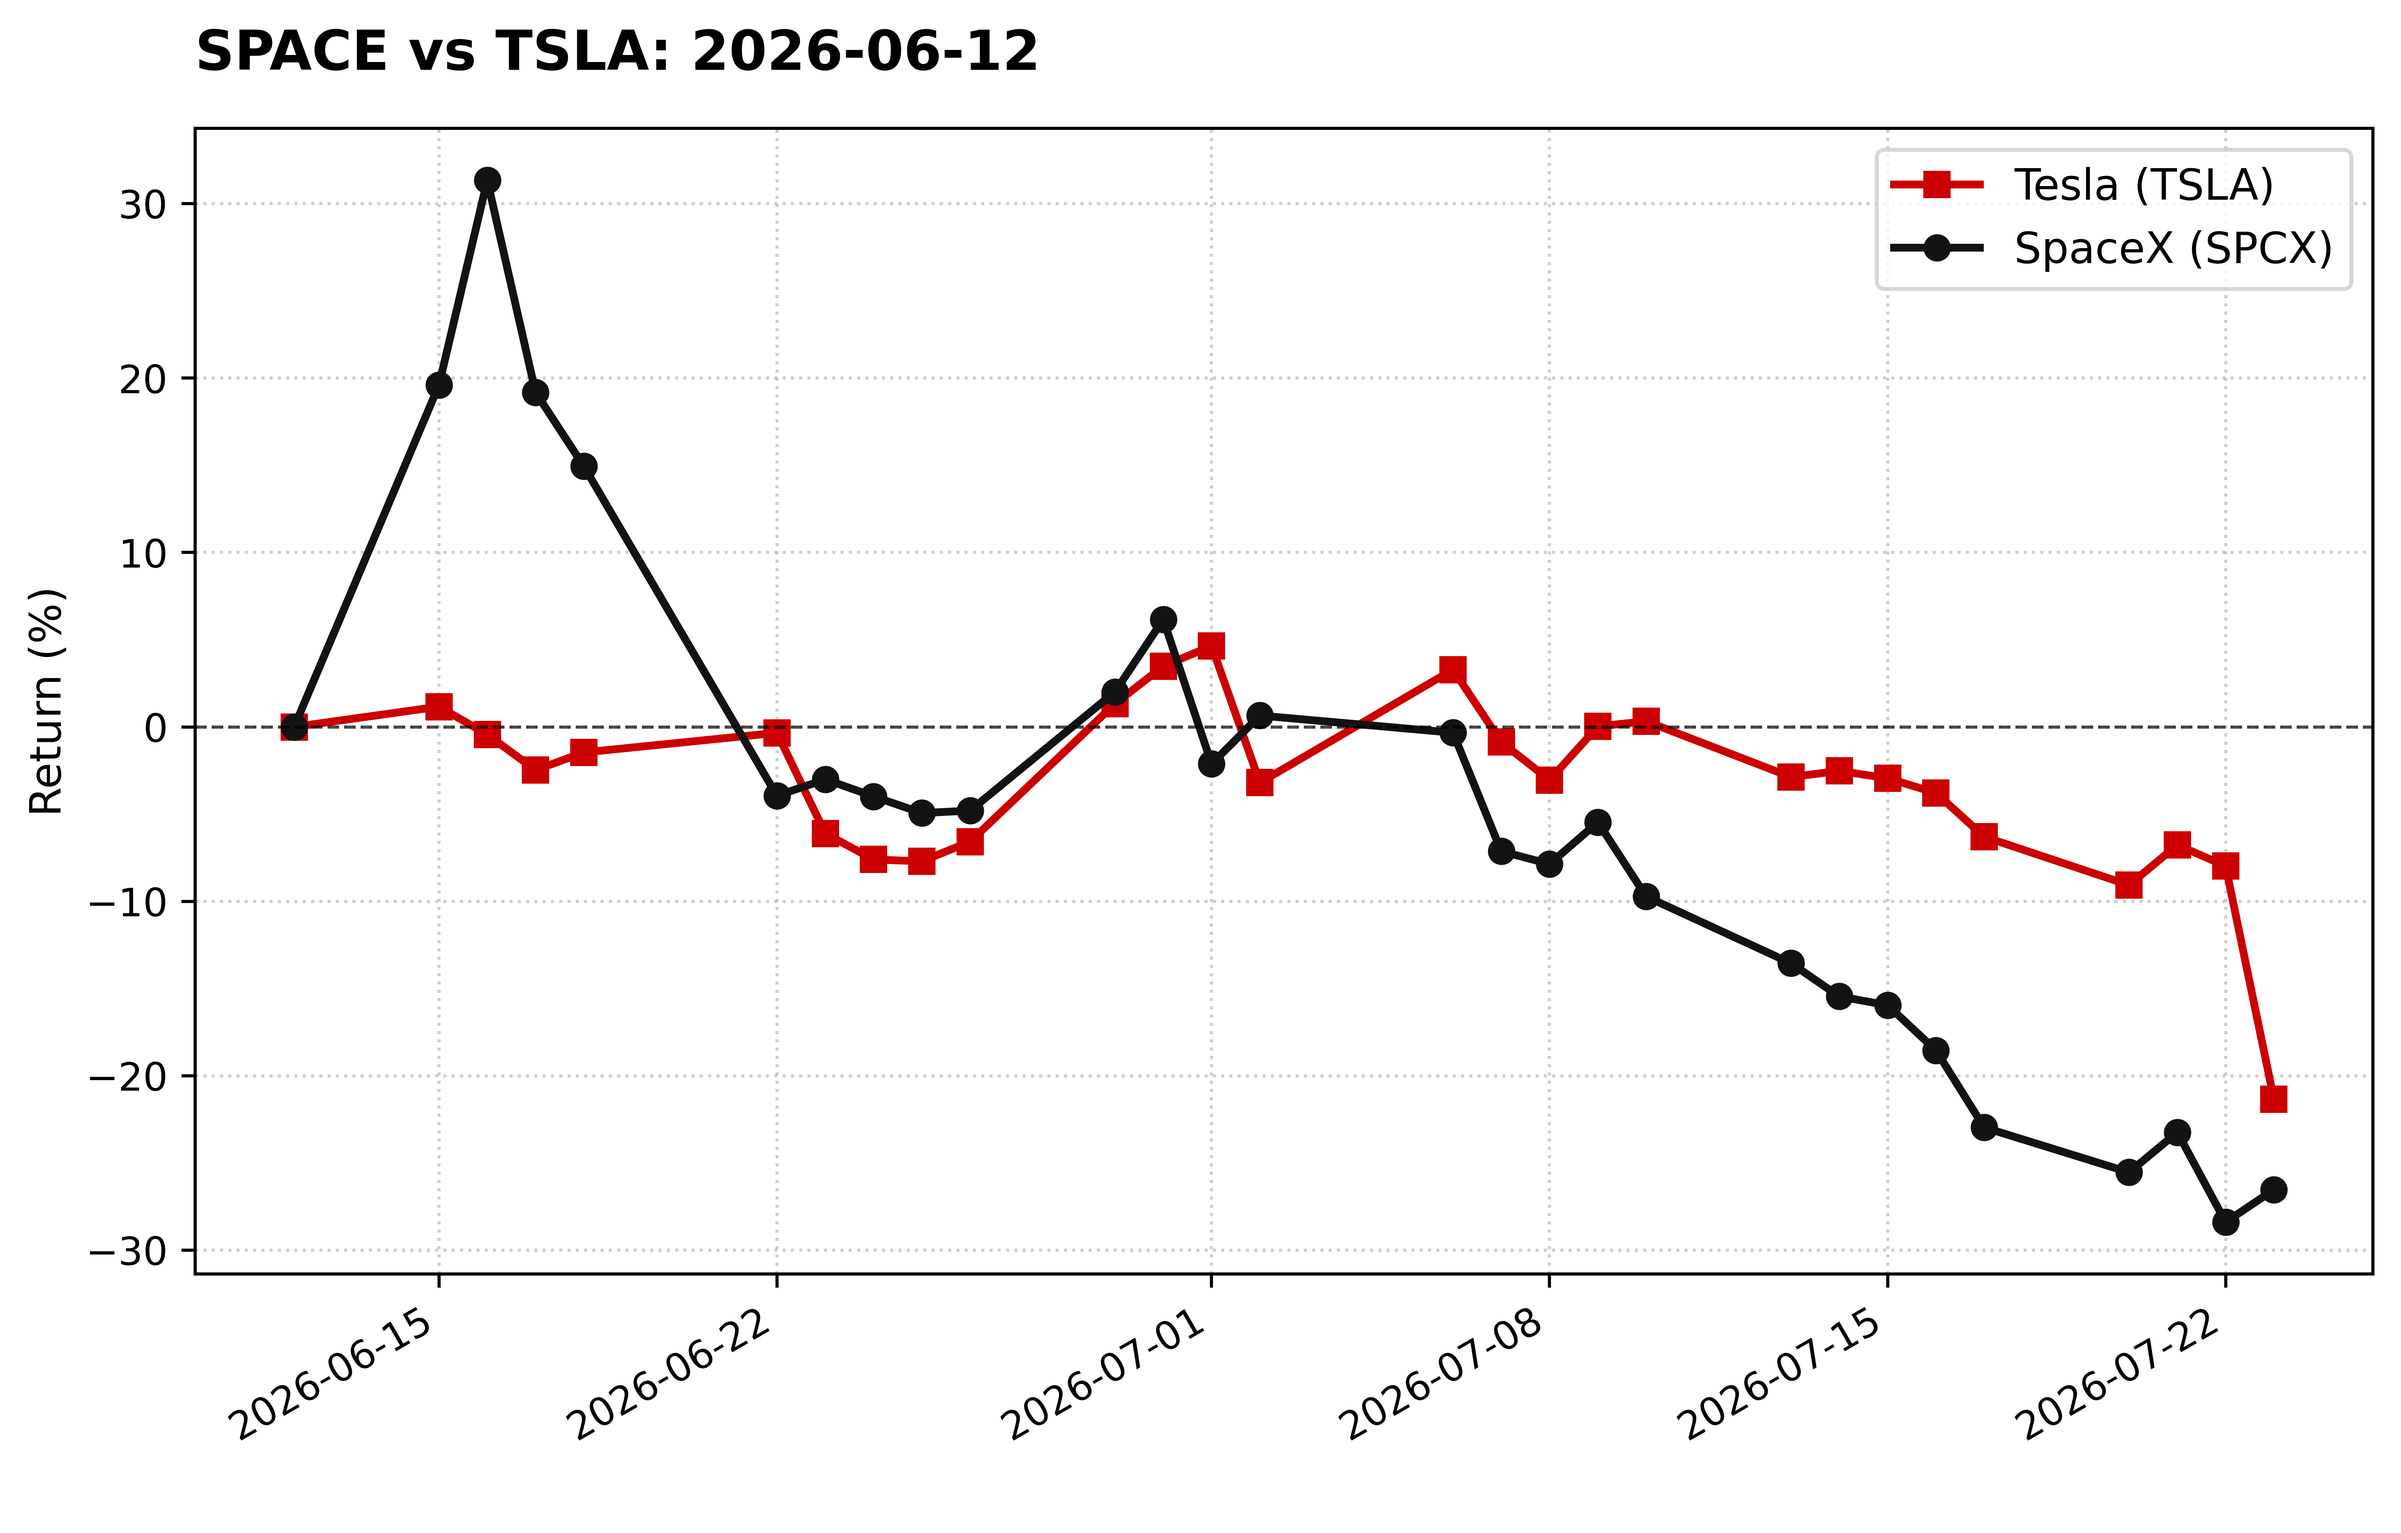
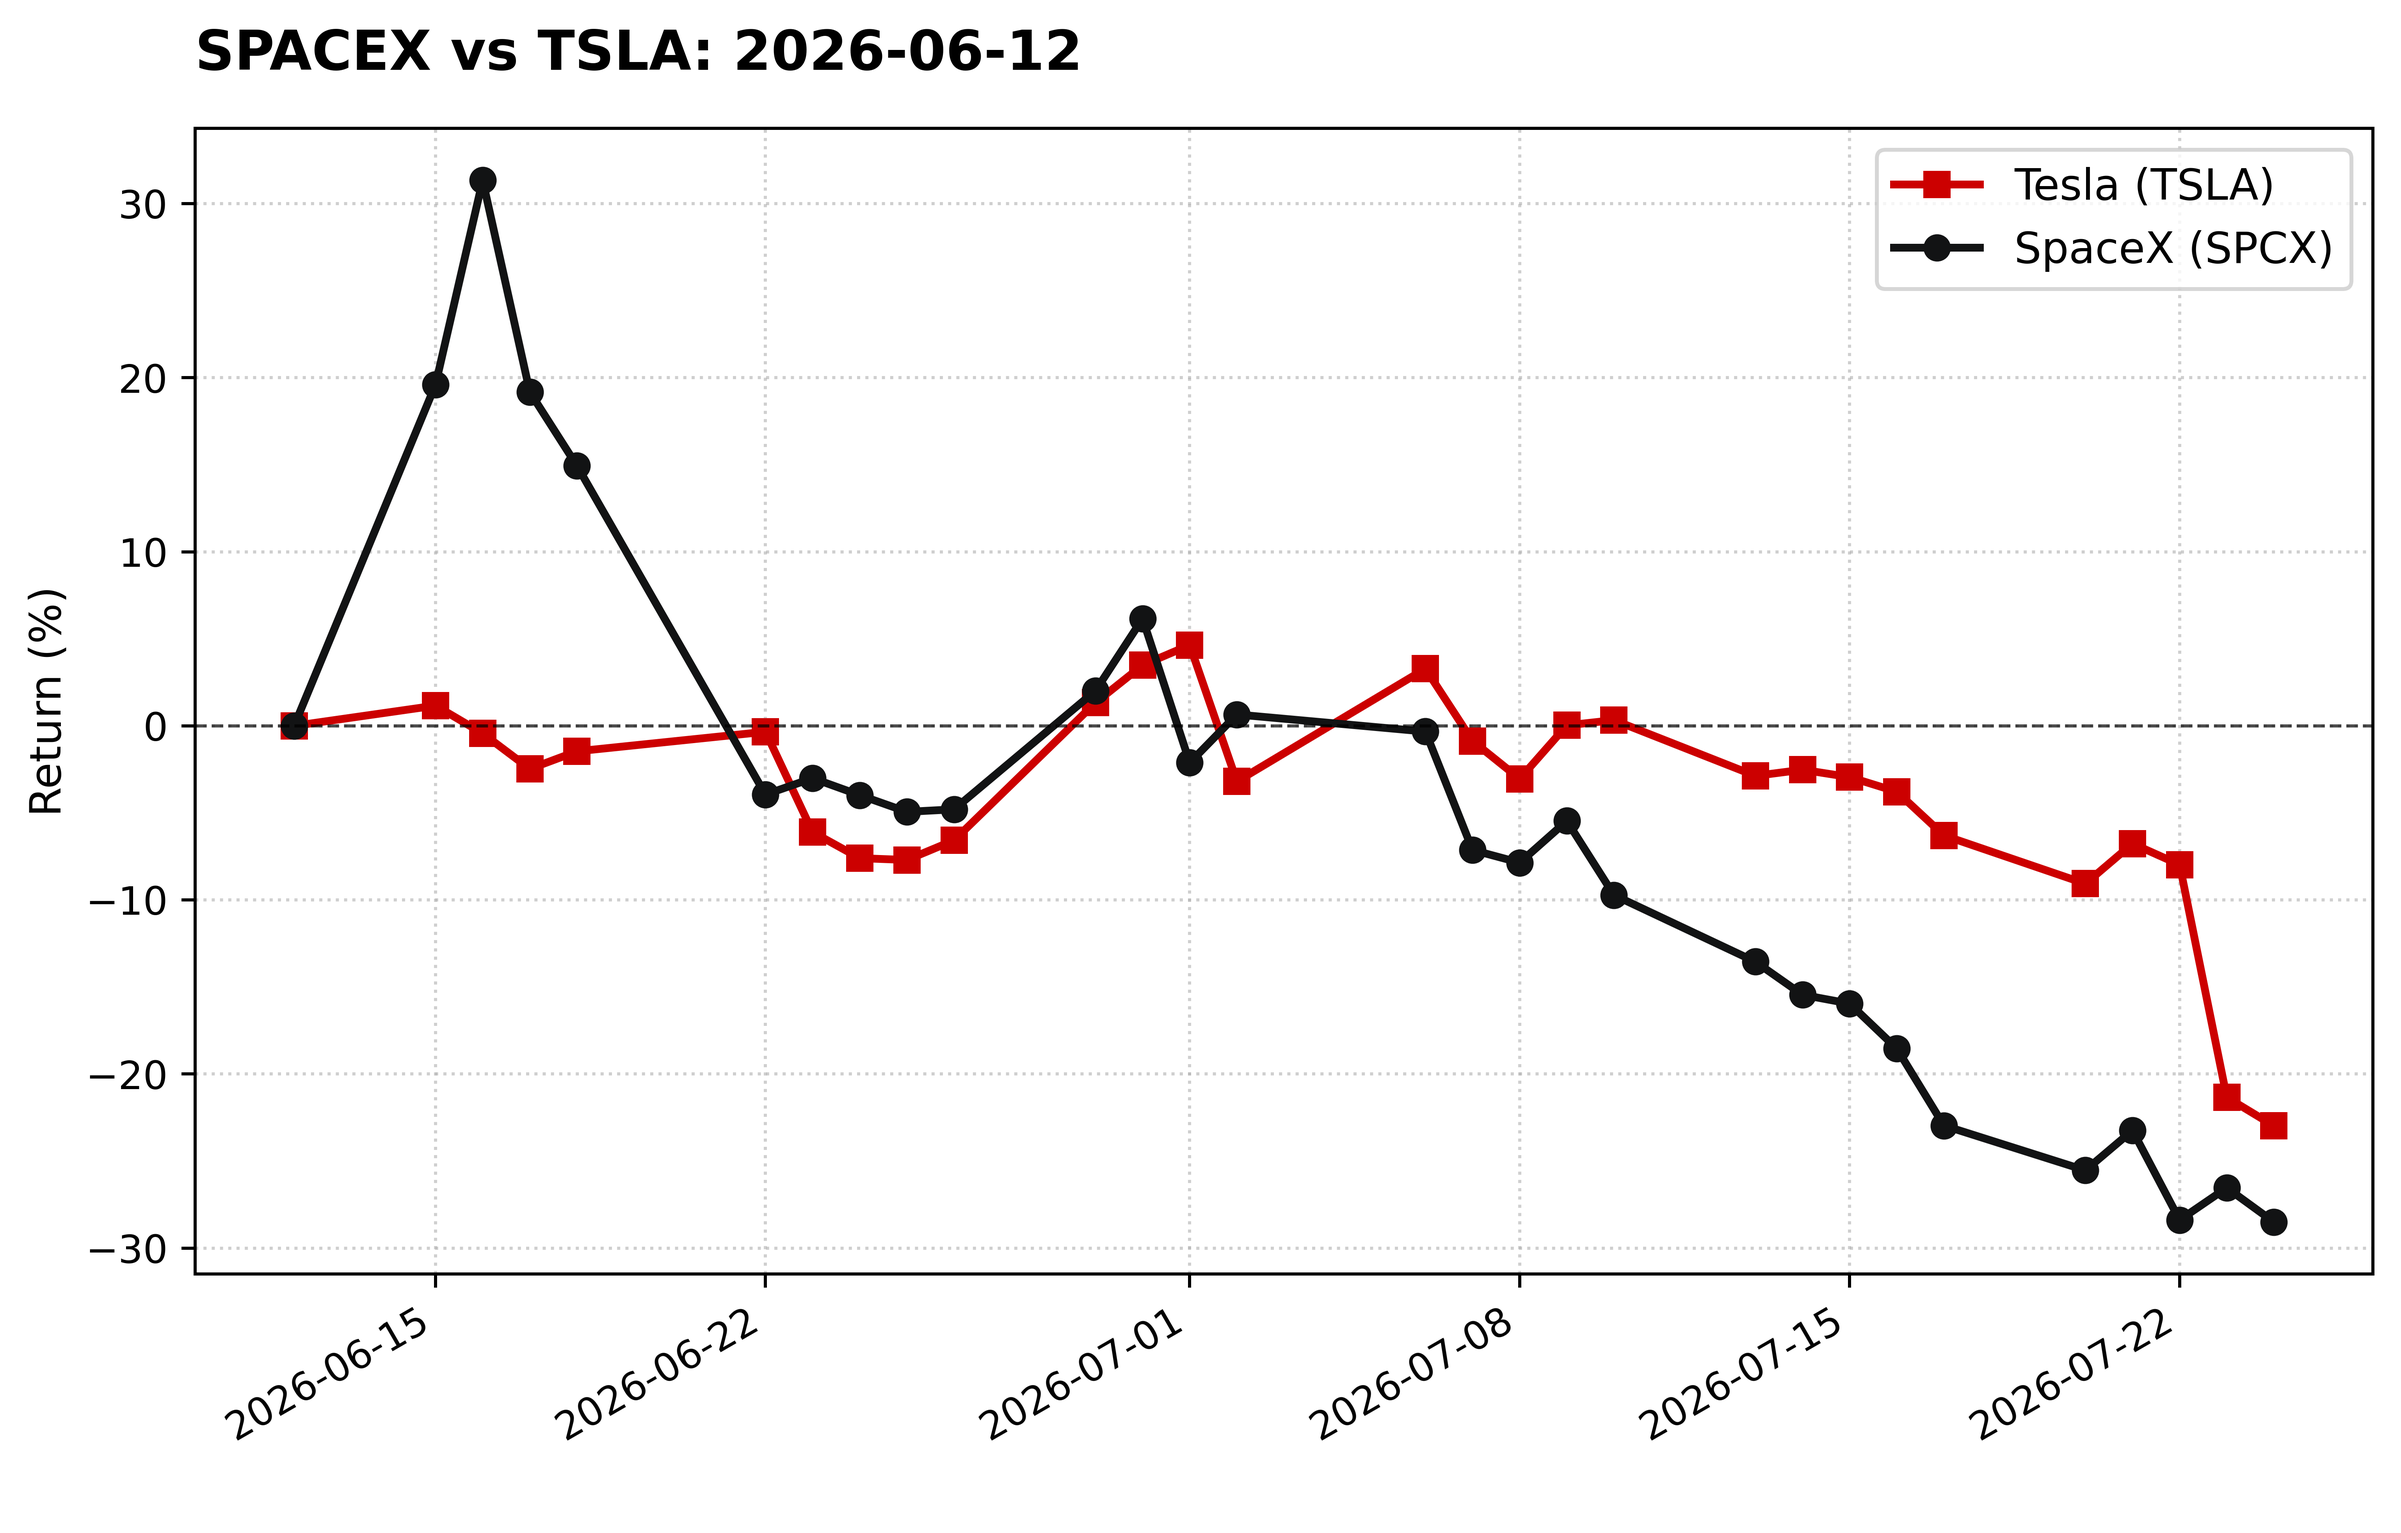
Initial commit

diff --git a/elongate.py b/elongate.py
@@ -5,7 +5,7 @@ import pandas as pd
 # 1. Define the tickers and the timeframe
 tickers = ["TSLA", "SPCX"]
 start_date = "2026-06-12"
-end_date = "2026-07-23"  # Requested inclusive end date
+end_date = "2026-07-25"  # Requested inclusive end date
 
 # yfinance treats the `end` parameter as exclusive. To include `end_date`
 # in the downloaded range, add one day to the end date.
@@ -57,7 +57,7 @@ try:
 
     # 5. Format and beautify the chart
     plt.title(
-        f"SPACE vs TSLA: {start_date}",
+        f"SPACEX vs TSLA: {start_date}",
         fontsize=14,
         fontweight="bold",
         pad=15,

diff --git a/spcx_tsla.py b/spcx_tsla.py
@@ -9,7 +9,7 @@ import yfinance as yf
 
 # Fetch data starting from June 22, 2026
 start_date = "2026-06-12"
-end_date = "2026-07-23"  # Requested inclusive end date 
+end_date = "2026-07-25"  # Requested inclusive end date 
 
 # yfinance treats the `end` parameter as exclusive. To include `end_date`,
 # add one day and use that as the `end` argument.
